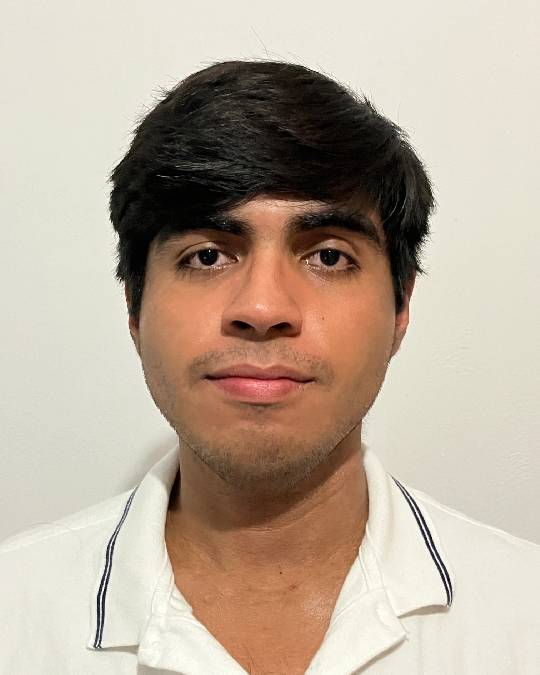
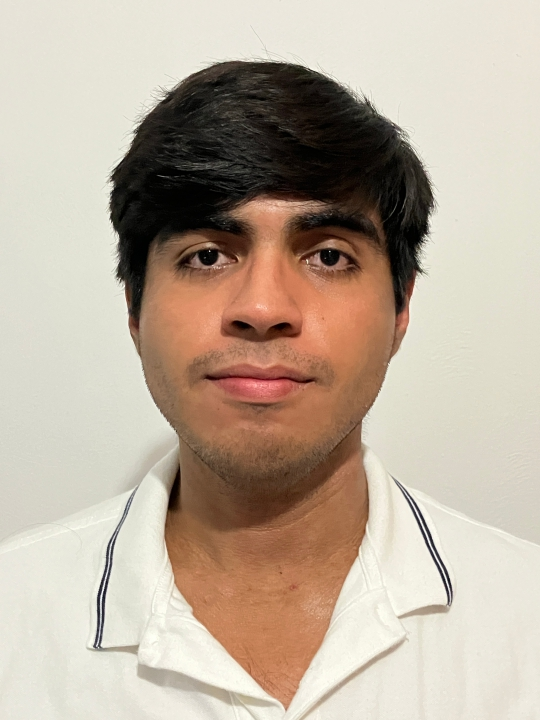
Mejorado el diseño de todo el portafolio

Changed region(s): [[0.0, 0.0622, 1.0, 1.0], [0.5333, 0.1867, 0.5926, 0.2178]]

diff --git a/index.html b/index.html
@@ -3,108 +3,120 @@
 
 <head>
     <title>Portafolio Profesional - Luis Daniel Sánchez López</title>
-    <link rel="stylesheet" href="css/main.css"/> <!-- Enlaca el css con el HTML-->
+    <script src="https://cdn.jsdelivr.net/npm/@tailwindcss/browser@4"></script>
 </head>
 
-<body>
+<body class="text-center">
 
     <!-- Todo lo que coloquen lo verá el usuario -->
-    <header>
+    <header class="p-[30px] text-xl">
         <h1>Portafolio Profesional</h1>
         <h4>Luis Daniel Sánchez López</h4>
     </header>
 
     <!-- Menú de navegación -->
-    <nav>
-        <a href="#bienvenida">Sobre mí</a>
-        <a href="#proyectos">Proyectos Tecnologicos</a>
-        <a href="#competencias">Competencias profesionales</a>
-        <a href="#">Contáctame</a>
+    <nav class="py-[10px] text-lg bg-blue-400 px-[20px] mb-[30px]">
+        <a class="hover:bg-white p-1 rounded transition duration-200 ease-in-out active:bg-gray-400" href="#bienvenida">Sobre mí</a>
+        <a class="hover:bg-white p-1 rounded transition duration-200 ease-in-out active:bg-gray-400" href="#proyectos">Proyectos Tecnologicos</a>
+        <a class="hover:bg-white p-1 rounded transition duration-200 ease-in-out active:bg-gray-400" href="#competencias">Competencias profesionales</a>
+        <a class="hover:bg-white p-1 rounded transition duration-200 ease-in-out active:bg-gray-400" href="#">Contáctame</a>
     </nav>
 
     <!-- Contenido principal -->
     <main>
         <section id="bienvenida">
-            <h2>Bienvenidos a mi portafolio profesional</h2>
-            <p>
-                Mi nombre es <mark>Luis Daniel Sánchez López</mark> soy especialista en <strong>Tecnologías de la Información</strong> Lorem Ipsum is simply dummy text of the printing and typesetting industry. Lorem Ipsum has been the
-                industry's standard dummy text ever since the 1500s, when an unknown printer took a galley of type and
-                scrambled it to make a type specimen book. It has survived not only five centuries, but also the leap
-                into electronic typesetting, remaining essentially unchanged. It was popularised in the 1960s with the
-                release of Letraset sheets containing Lorem Ipsum passages, and more recently with desktop publishing
-                <p>Mi <small>Frase favorita es:</small> <i>Primero resuelvo el problema...</i></p>software like Aldus PageMaker including versions of Lorem Ipsum.
-            </p>
-            <img alt="Foto de perfil" src="https://images.pexels.com/photos/1040881/pexels-photo-1040881.jpeg" width="200"/>
+
+            <h2 class="text-3xl p-[30px]">Bienvenidos a mi portafolio profesional</h2>
+            
+            <div class="flex justify-between p-[30px]">
+                <p class="text-left">
+                    Mi nombre es <mark>Luis Daniel Sánchez López</mark> soy especialista en <strong>Tecnologías de la Información</strong> Lorem Ipsum is simply dummy text of the printing and typesetting industry. Lorem Ipsum has been the
+                    industry's standard dummy text ever since the 1500s, when an unknown printer took a galley of type and
+                    scrambled it to make a type specimen book. It has survived not only five centuries, but also the leap
+                    into electronic typesetting, remaining essentially unchanged. It was popularised in the 1960s with the
+                    release of Letraset sheets containing Lorem Ipsum passages, and more recently with desktop publishing
+                </p>
+
+                <img class="mx-auto drop-shadow-2xl rounded-2xl" alt="Foto de perfil" src="pfp.jpg" width="200"/>
+            </div>
+            
+            <p class="p-[100px] text-4xl">Mi <small>frase favorita es:</small><br><br> <i>Primero resuelve el problema. Luego, escribe el código.</i></p>
+            
         </section>
         
         <section id="proyectos">
-            <h2>Proyectos Tecnológicos</h2>
-            <div class="lista-proyectos">
-                <article class="proyecto">
-                    <h3>Agenda</h3>
+            <h2 class="bg-slate-400 p-10 text-3xl font-bold">Proyectos Tecnológicos</h2>
+            <div class="lista-proyectos flex justify-between p-3 bg-slate-400">
+                <article class="proyecto text-left rounded-2xl p-3 bg-slate-100 drop-shadow-2xl">
+                    <h3 class="font-bold">Agenda</h3>
                     <p>Lorem ipsum dolor sit, amet consectetur adipisicing elit. Fugit accusantium cumque, minima facere numquam perspiciatis!</p>
                 </article>
-                <article  class="proyecto">
-                    <h3>Sistema de ventas</h3>
+                <article  class="proyecto text-left rounded-2xl p-3 bg-slate-100 mx-3">
+                    <h3 class="font-bold">Sistema de ventas</h3>
                     <p>Lorem ipsum dolor sit, amet consectetur adipisicing elit. Fugit accusantium cumque, minima facere numquam perspiciatis!</p>
                 </article>
-                <article  class="proyecto">
-                    <h3>Safemap</h3>
+                <article  class="proyecto text-left rounded-2xl p-3 bg-slate-100">
+                    <h3 class="font-bold">Safemap</h3>
                     <p>Lorem ipsum dolor sit, amet consectetur adipisicing elit. Fugit accusantium cumque, minima facere numquam perspiciatis!</p>
                 </article>
             </div>
         </section>
 
         <section id="competencias">
-            <h2>Competencias profesionales</h2>
-            <h3>Tecnologías y Lenguajes</h3>
+            <h2 class="p-10 text-3xl font-bold">Competencias profesionales</h2>
+            <h3 class="p-10 text-3xl">Tecnologías y Lenguajes</h3>
             <!-- Listas desordenadas (Viñetas)-->
-            <ul>
-                <li>HTML 5</li>
-                <li>CSS</li>
-                <li>JavaScript</li>
-                <li>C#</li>
+            <ul class="flex justify-center text-white text-3xl p-10">
+                <li class="bg-orange-600 p-4 mx-10 rounded-full">HTML 5</li>
+                <li class="bg-blue-600 p-4 mx-10 rounded-full">CSS</li>
+                <li class="bg-yellow-500 p-4 mx-10 rounded-full">JavaScript</li>
+                <li class="bg-purple-500 p-4 mx-10 rounded-full">C#</li>
             </ul>
-            <h3>Dominio de habilidades</h3>
-            <div>
-                <label>HTML</label>
-                <progress min="0" max="100" value="75">75%</progress>
+            <h3 class="p-10 text-3xl">Dominio de habilidades</h3>
+            <div class="flex flex-col items-center w-screen">
+                <div class="p-3 text-2xl w-100 rounded-full m-1 bg-gray-200">
+                    <label>HTML</label>
+                    <progress min="0" max="100" value="75">75%</progress>
+                </div>
+                <div class="p-3 text-2xl w-100 rounded-full m-1 bg-gray-200">
+                    <label>CSS</label>
+                    <progress min="0" max="100" value="30">50%</progress>
+                </div>
+                <div class="p-3 text-2xl w-100 rounded-full m-1 bg-gray-200">
+                    <label>JavaScript</label>
+                    <progress min="0" max="100" value="70">70%</progress>
+                </div>
+                <div class="p-3 text-2xl w-100 rounded-full mt-1 mb-20 bg-gray-200">
+                    <label>C#</label>
+                    <progress min="0" max="100" value="80">80%</progress>
+                </div>
             </div>
-            <div>
-                <label>CSS</label>
-                <progress min="0" max="100" value="30">50%</progress>
-            </div>
-            <div>
-                <label>JavaScript</label>
-                <progress min="0" max="100" value="70">70%</progress>
-            </div>
-            <div>
-                <label>C#</label>
-                <progress min="0" max="100" value="80">80%</progress>
-            </div>
+
+            
+            
         </section>
 
-        <section id="contacto">
-            <h2>Contáctame</h2>
-            <p>Lorem ipsum dolor sit amet consectetur, adipisicing elit. Esse voluptatibus placeat voluptates rem voluptatem maiores pariatur ipsum amet perferendis illum.</p>
+        <section id="contacto" class="p-3 text-left bg-blue-400">
+            <h2 class="font-bold text-3xl">Contáctame</h2>
+            <p class="text-white text-lg">Lorem ipsum dolor sit amet consectetur, adipisicing elit. Esse voluptatibus placeat voluptates rem voluptatem maiores pariatur ipsum amet perferendis illum.</p>
             <form>
-                <div class="campos">
-                    <label>Nombre Completo</label>
-                    <input type="text" name="nombre" placeholder="Tu nombre"/>
+                <div class="campos p-1 text-lg">
+                    <label class="text-white">Nombre Completo</label>
+                    <input class="bg-white rounded-md p-1" type="text" name="nombre" placeholder="Tu nombre"/>
+                </div>
+                <div class="campos p-1 text-lg">
+                    <label class="text-white">Telefono</label>
+                    <input class="bg-white rounded-md p-1" type="text" name="telefono" placeholder="Numero de telefono"/>
                 </div>
                 <div class="campos">
-                    <label>Telefono</label>
-                    <input type="text" name="telefono" placeholder="Numero de telefono"/>
-                </div>
-                <div class="campos">
-                    <button type="submit">Enviar</button>
+                    <button class="bg-blue-900 text-white p-4 text-xl rounded-xl" type="submit">Enviar</button>
                 </div>
             </form>
             
         </section>
     </main>
 
-    <footer>
+    <footer class="bg-blue-400 text-white">
         <p>&copy; 2025 Todos los derechos reservados</p>
     </footer>
 </body>
